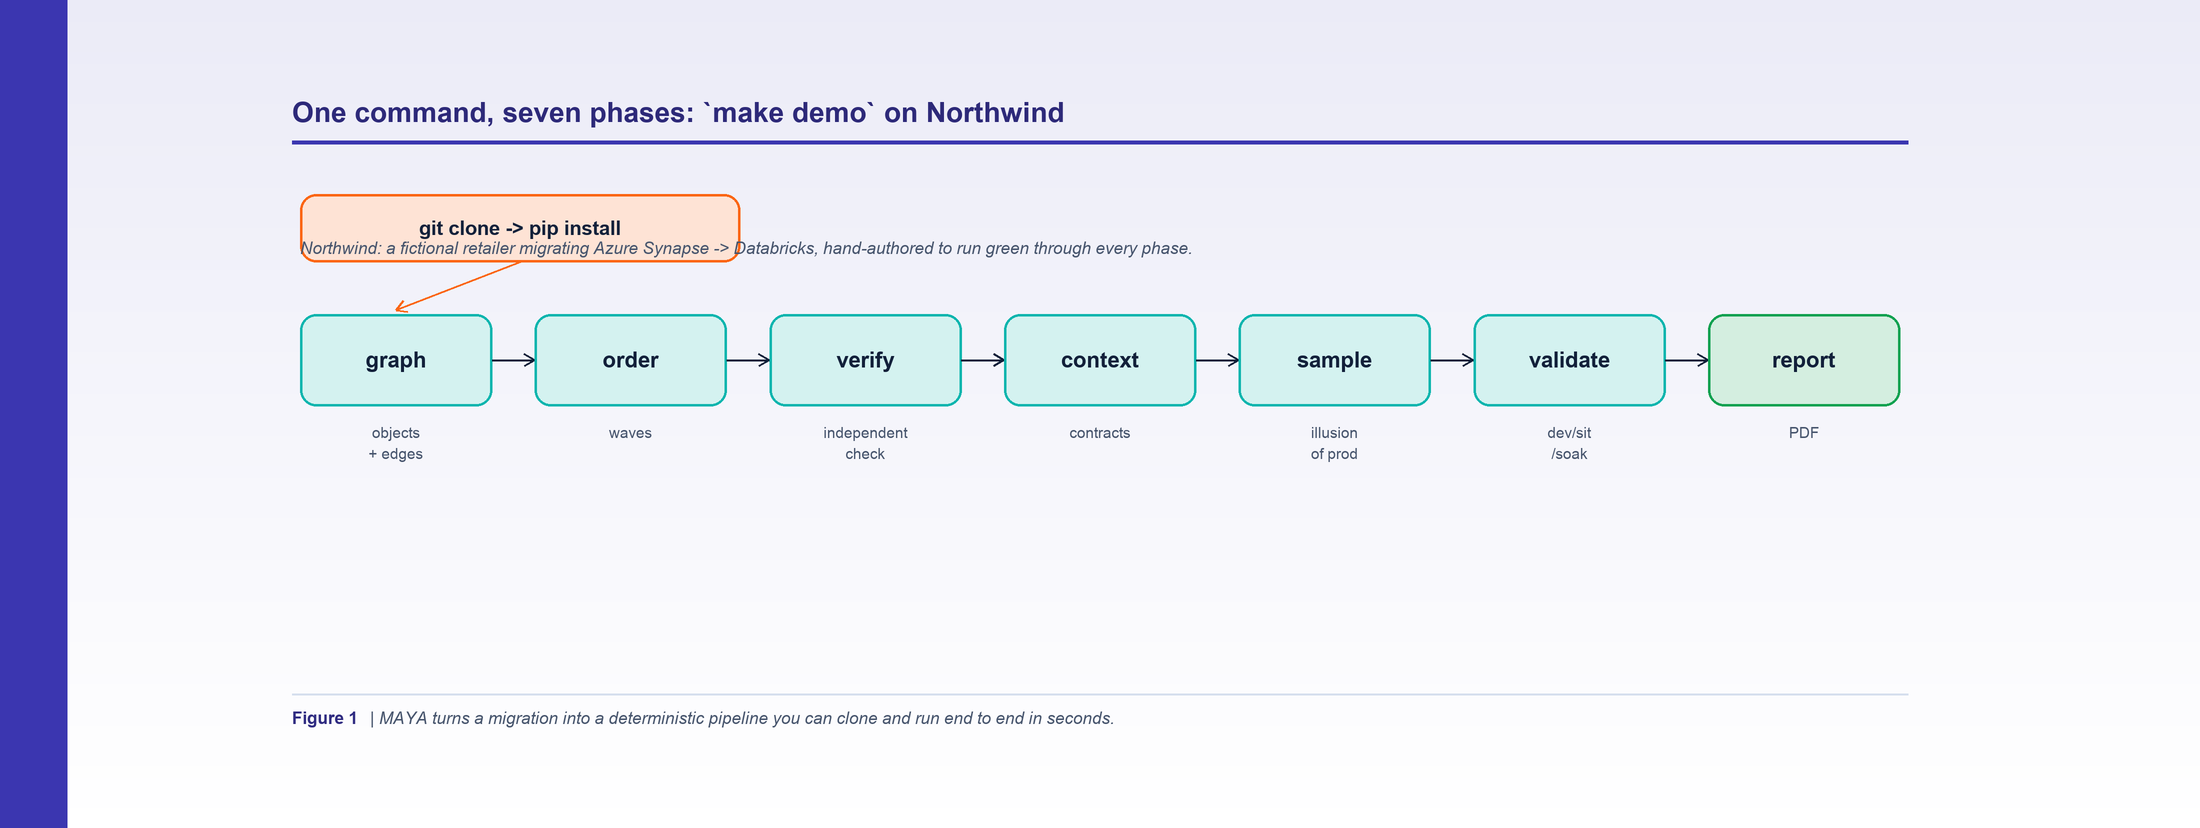
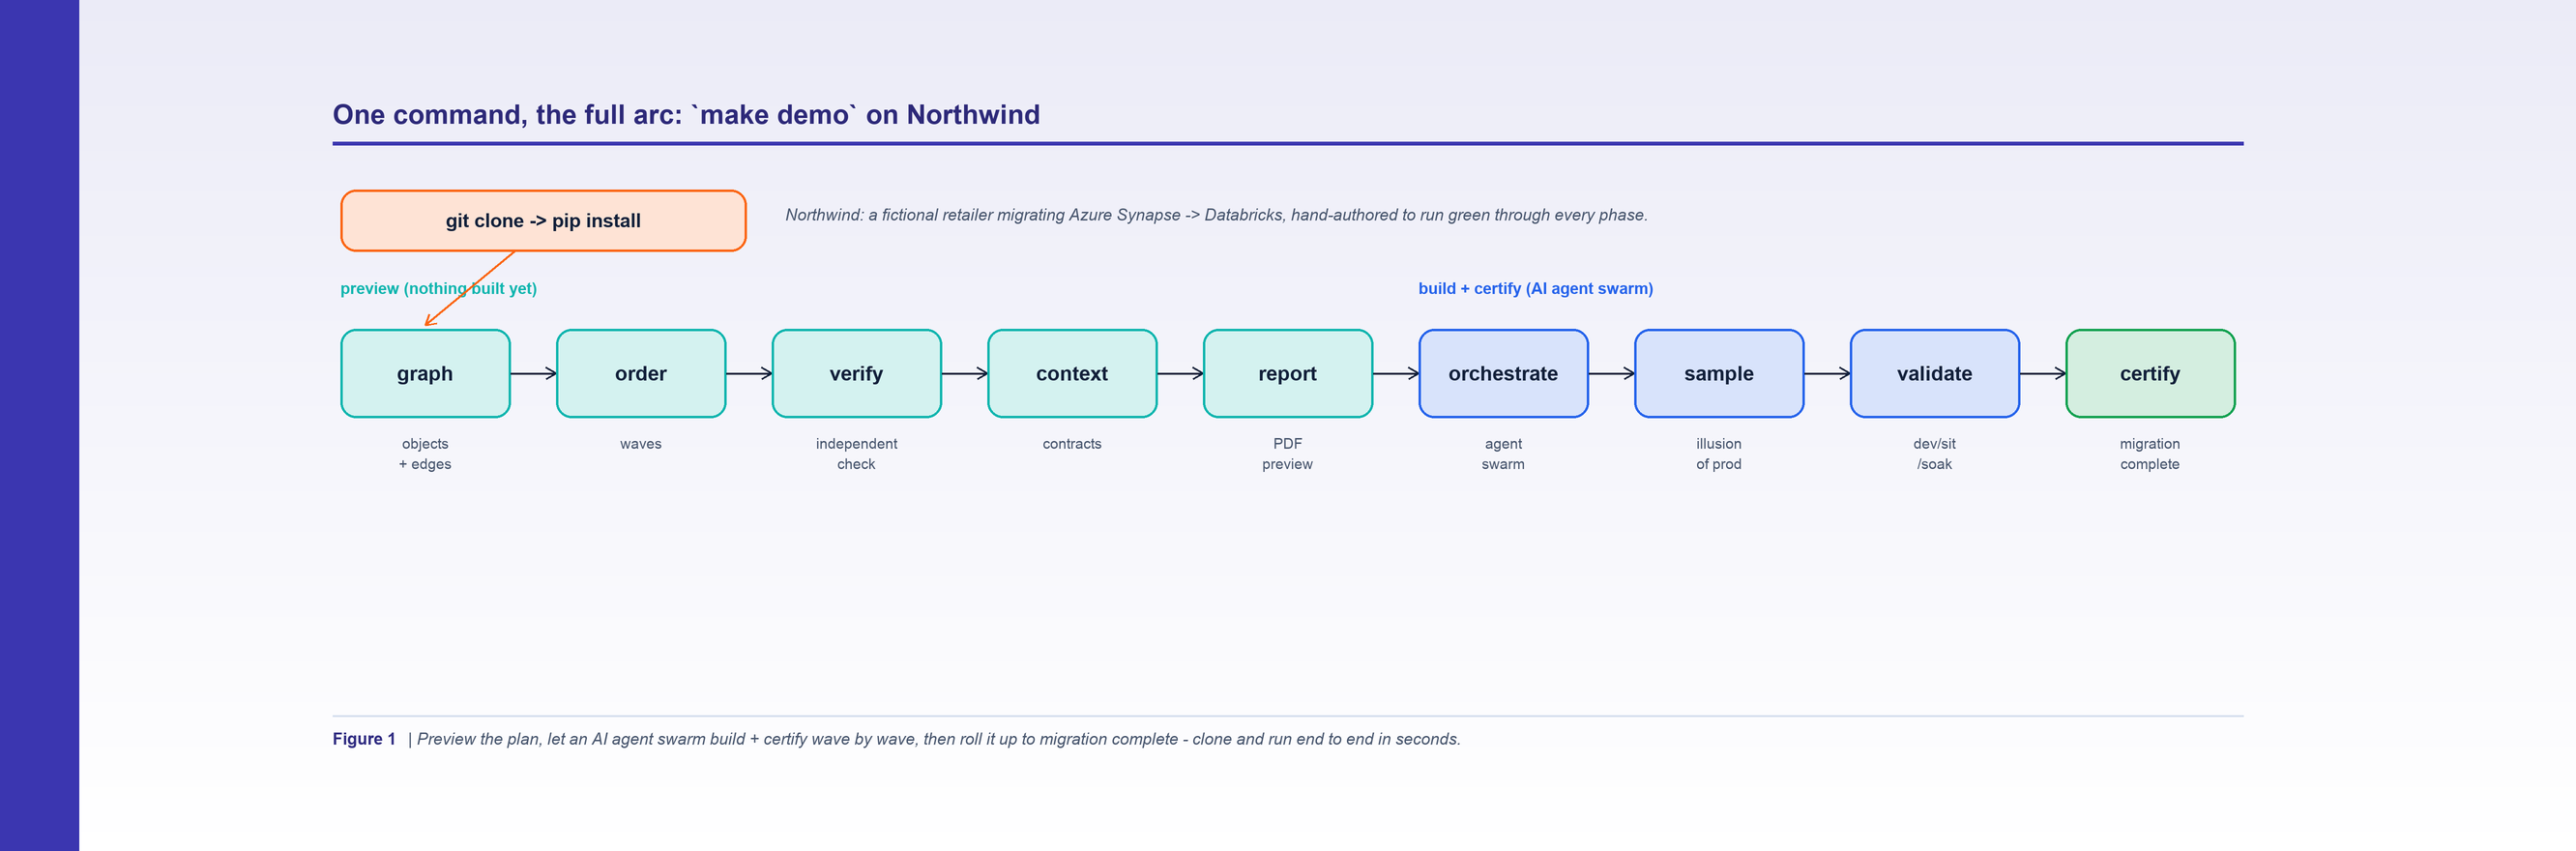
docs: lead README with the platform advantage; align series-2 blog to full arc
- README: add "The big advantage: compress years into weeks" section - expertise
  (AI agents, Databricks, AI skill creation, validation) + customer domain experts;
  collect metadata/code/DDL/views/config, build graph+contracts with medallion
  modernization, preserve gold tables for automated validation, live dashboard for
  business users, AI swarm converts+validates in waves to whole-system certification;
  frame the surprise time-compression factor (6mo-3yr by hand) tied to following the rules
- blog 01 + 10 + tutorial 10: replace "seven phases" with preview + agent-swarm build +
  whole-system certify (maya certify / MIGRATION_COMPLETE); fix stale clone URL
- figures: regenerate fig 01 to show the full preview -> build+certify -> migration complete arc

Changed region(s): [[0.1236, 0.2114, 0.8655, 0.5737], [0.1236, 0.1208, 0.8655, 0.1812], [0.1236, 0.8454, 0.5564, 0.8756]]

diff --git a/blog/figures/generate_figures.py b/blog/figures/generate_figures.py
@@ -22,29 +22,35 @@ HERE = os.path.dirname(os.path.abspath(__file__))
 
 # 01 - the MAYA pipeline on Northwind (make demo)
 def fig01():
-    f = Fig(860, 340, "One command, seven phases: `make demo` on Northwind", 1,
-            "MAYA turns a migration into a deterministic pipeline you can clone and run "
-            "end to end in seconds.")
-    phases = ["graph", "order", "verify", "context", "sample", "validate", "report"]
+    f = Fig(1040, 360, "One command, the full arc: `make demo` on Northwind", 1,
+            "Preview the plan, let an AI agent swarm build + certify wave by wave, then "
+            "roll it up to migration complete - clone and run end to end in seconds.")
+    phases = ["graph", "order", "verify", "context", "report",
+              "orchestrate", "sample", "validate", "certify"]
     subs = ["objects\n+ edges", "waves", "independent\ncheck", "contracts",
-            "illusion\nof prod", "dev/sit\n/soak", "PDF"]
+            "PDF\npreview", "agent\nswarm", "illusion\nof prod", "dev/sit\n/soak",
+            "migration\ncomplete"]
+    # preview phases (nothing built yet) vs build+certify loop
+    cols = [TEAL, TEAL, TEAL, TEAL, TEAL, BLUE, BLUE, BLUE, GREEN]
     n = len(phases)
-    bw, bh = 96, 46
+    bw, bh = 88, 46
     gap = (f.W - 60 - n * bw) / (n - 1)
-    y = 120
-    for i, (p, s) in enumerate(zip(phases, subs)):
+    y = 130
+    for i, (p, s, col) in enumerate(zip(phases, subs, cols)):
         x = 30 + i * (bw + gap)
-        col = TEAL if i < n - 1 else GREEN
-        f.box(x, y, bw, bh, p, fill=tint(col, .82), stroke=col, label_size=11)
+        f.box(x, y, bw, bh, p, fill=tint(col, .82), stroke=col, label_size=10.5)
         f.wrap_center(x + bw / 2, y + bh + 16, s.split("\n"), 7.6, CAPTION)
         if i < n - 1:
             f.arrow(x + bw, y + bh / 2, x + bw + gap, y + bh / 2, width=1.2)
-    f.box(30, 60, 220, 34, "git clone -> pip install", fill=tint(ACCENT, .82),
+    f.box(30, 58, 210, 32, "git clone -> pip install", fill=tint(ACCENT, .82),
           stroke=ACCENT, label_size=10)
-    f.arrow(140, 94, 78, y - 2, color=ACCENT, width=1.1)
-    f.text(30, y - 30, "Northwind: a fictional retailer migrating Azure Synapse -> "
-           "Databricks, hand-authored to run green through every phase.", 8.6, CAPTION,
-           italic=True)
+    f.text(260, 74, "Northwind: a fictional retailer migrating Azure Synapse -> Databricks, "
+           "hand-authored to run green through every phase.", 8.4, CAPTION, italic=True)
+    # phase-group labels sit just above their box groups
+    f.text(30, y - 18, "preview (nothing built yet)", 8.2, TEAL, bold=True)
+    f.text(30 + 5 * (bw + gap), y - 18, "build + certify (AI agent swarm)", 8.2, BLUE,
+           bold=True)
+    f.arrow(120, 90, 74, y - 2, color=ACCENT, width=1.1)
     return f
 
 

diff --git a/blog/01_meet_maya_northwind.md b/blog/01_meet_maya_northwind.md
@@ -29,16 +29,17 @@ small, fully runnable demo you can clone right now.
 ## The 60-second version
 
 ```bash
-git clone https://github.com/srinivasnelakuditi/maya-migrate
-cd maya-migrate
+git clone https://github.com/vasutechgenie/maya-migrate-to-databricks
+cd maya-migrate-to-databricks
 pip install -r requirements.txt
 make demo
 ```
 
-`make demo` runs seven phases against a bundled example and writes every artifact to
+`make demo` runs the full workflow against a bundled example and writes every artifact to
 `examples/northwind/out/`: a normalized dependency graph, an independently verified build
-order, a build contract for every pipeline, referential-integrity-preserving sample SQL,
-parity SQL for three validation phases, and a branded PDF report. No cloud account, no
+order, a build contract for every pipeline (the preview), the agent work queue by wave,
+referential-integrity-preserving sample SQL, parity SQL for three validation phases, the
+whole-system certification rollup, and a branded PDF report. No cloud account, no
 credentials, no live source system required.
 
 ## Meet Northwind
@@ -55,21 +56,32 @@ Northwind isn't just a toy for the blog. It's also the project's **test fixture*
 pytest suite asserts on Northwind's exact waves, classifications, and parity targets, so
 the examples in these posts are guaranteed to stay true as the code evolves.
 
-## The seven phases
+## The phases
 
-Everything MAYA does is a function of one normalized graph:
+Everything MAYA does is a function of one normalized graph. The workflow splits into a
+**preview** (nothing is built yet - you can review the plan before a line of code is
+written) and a **build + certify** loop (a swarm of AI agents turns the plan into the real
+lakehouse, wave by wave):
+
+Preview:
 
 1. **graph** - the adapter parses your source into `objects.csv` + `edges.csv`.
 2. **order** - topological build order (waves) via SCC + longest-path layering.
 3. **verify** - a *different* set of algorithms re-derives the order and proves it.
 4. **context** - a deterministic build contract per pipeline (needs / logic / output).
-5. **sample** - build a small "illusion of production" for cheap logic proofs.
-6. **validate** - prove parity dev -> sit -> soak, with no partial credit.
-7. **report** - a branded PDF summarizing waves, engines, parity, and connections.
+5. **report** - a branded PDF preview of the whole migration.
+
+Build + certify:
+
+6. **orchestrate** - a pool of AI agents drains each wave's queue and builds the *real* pipelines.
+7. **sample** - build a small "illusion of production" for cheap logic proofs.
+8. **validate** - prove parity dev -> sit -> soak, with no partial credit.
+9. **certify** - the whole-system rollup: the migration is complete only when every pipeline (and dashboard) is certified.
 
 The thing I care most about is that none of this is guessed. The graph comes from the
 source; the order is computed and independently checked; the contracts are derived, not
-authored; and certification is binary and machine-verified.
+authored; the agents build inside those contracts; and certification is binary and
+machine-verified - per pipeline, then for the whole system.
 
 ## Why "MAYA"?
 
@@ -84,10 +96,11 @@ over time. We'll get deep into all three phases later in the series.
 
 Over the next nine parts we'll follow Northwind through the whole pipeline: how MAYA reads
 any source, how it builds and verifies the dependency graph and the wave plan, how the
-per-pipeline contract is derived, how seven reusable engines cover the estate, and how the
-three-phase parity gate (Dev, SIT, and the sustained Soak) certifies each table. We'll
-finish with the live dashboard, BI/Genie migration, and cutover - and how to point MAYA at
-your own estate.
+per-pipeline contract is derived, how seven reusable engines cover the estate, how a swarm
+of AI agents builds the estate wave by wave, and how the three-phase parity gate (Dev, SIT,
+and the sustained Soak) certifies each table - up to the whole-system certification that
+declares the migration complete. We'll finish with the live dashboard, BI/Genie migration,
+and cutover - and how to point MAYA at your own estate.
 
 If you want to read ahead, the repo has a durable, versioned version of this same
 walkthrough under `docs/tutorial/`. But the best way to follow along is to clone it and run

diff --git a/README.md b/README.md
@@ -13,6 +13,34 @@ wave by wave, each one self-validating against the source through a strict three
 parity gate. The run finishes with a single **whole-system certification**: when every
 pipeline and dashboard is certified, the migration is complete and the source can retire.
 
+## The big advantage: compress years into weeks
+
+MAYA is built on deep, hands-on expertise - **AI coding agents**, **Databricks and lakehouse
+engineering**, **AI skill/agent creation**, and **large-scale migration validation** - and it
+pairs that expertise with **your domain experts**, the people who know what each pipeline
+actually means. That combination turns a multi-year rewrite into a governed assembly line:
+
+1. **Collect everything.** Together with your domain experts, MAYA gathers the full estate -
+   metadata for every existing pipeline, the pipeline *code*, DDL, views, and the metadata
+   sitting in your config/control tables. Nothing is guessed; the source describes itself.
+2. **Build the graph and contracts.** MAYA derives one normalized dependency graph and a
+   per-pipeline **build contract** for *every* pipeline, with a complete **modernization to
+   medallion architecture** (bronze / silver / gold) baked in - not a lift-and-shift.
+3. **Preserve every gold table for automated validation.** The gold tables each pipeline
+   produces are kept intact and targeted, so parity can be proven *automatically*, table by
+   table, against the legacy system.
+4. **Give business users a live dashboard.** A ready-made dashboard lets business and program
+   stakeholders watch progress - wave by wave, gate by gate - in real time.
+5. **Run the AI swarm.** A swarm of AI agents converts and validates the pipelines **in
+   waves**, re-proving parity at each step, until the whole system is certified **done**.
+
+> **The surprise factor.** That last phase - actually converting and validating hundreds of
+> pipelines - is the part that, done by hand, takes **6 months to 2-3 years**. MAYA crunches
+> it into a small fraction of that time. *How* small is the surprise: the compression factor
+> scales directly with how well you follow the framework's rules. Clean metadata, honest
+> contracts, disciplined domain-expert review, and preserved gold tables all multiply the
+> speedup - follow the rules well and the timeline collapses from years to weeks.
+
 **Source-agnostic by design.** The core never sees your source technology - it only ever
 operates on a normalized graph. A thin **adapter** is the *only* piece that understands a
 given source, so the same engine migrates:

diff --git a/blog/10_dashboard_bi_cutover.md b/blog/10_dashboard_bi_cutover.md
@@ -32,8 +32,10 @@ tables and dashboard views (see `templates/dashboard_control_tables.sql` and
 - **v_drift** - open parity failures by reason code, so the team fixes causes, not symptoms.
 - **v_soak_watch** - pipelines in soak, with their T+7 / T+14 due dates and drift status.
 
-The gates run G0 (scope) through G9 (soak-certified), and progress is measured against them, so
-"how far along are we" has an exact, defensible answer instead of a vibe.
+The gates run G0 (scope) through G9 (soak-certified) per pipeline, then a single **system gate
+(S)** rolls all of them - plus the BI objects - across every wave into one verdict:
+`MIGRATION_IN_PROGRESS -> SYSTEM_PROVISIONAL -> MIGRATION_COMPLETE`. So "how far along are we"
+has an exact, defensible answer instead of a vibe - right up to "is the migration done?"
 
 ## Migrating the BI layer
 
@@ -61,13 +63,17 @@ aren't proven yet.
 
 Cutover is the payoff of everything before it. Because each table is certified and each wave is
 built on certified data, cutover isn't a leap of faith - it's flipping consumers over to tables
-that have already been proven equal, including through the soak. The `report` phase produces a
-branded PDF summarizing waves, engines, parity, and connections that's genuinely useful as the
-sign-off artifact:
+that have already been proven equal, including through the soak. And you don't cut over on a hunch
+that "everything's done": `maya certify` rolls every per-pipeline gate and every BI object into
+one whole-system state, and only `MIGRATION_COMPLETE` clears the source for retirement:
 
 ```bash
-python3 cli.py report --config examples/northwind/northwind.yaml
+python3 cli.py certify --config examples/northwind/northwind.yaml
+python3 cli.py report  --config examples/northwind/northwind.yaml
 ```
+
+The `report` phase produces a branded PDF summarizing waves, engines, parity, and connections
+that's genuinely useful as the sign-off artifact.
 
 ## Running it on your estate
 
@@ -78,11 +84,12 @@ Northwind was the whole workflow in miniature. To run MAYA for real:
    template; ship a small synthetic example alongside it, exactly like Northwind.
 2. **Copy `templates/project_config.example.yaml`** to your own config: point it at your discovery
    folder, set your schema-to-layer map, your dev/sit catalogs, and your soak windows.
-3. **Run the same seven phases** you just watched, wave by wave, certifying as you go.
+3. **Run the same workflow** you just watched - preview, then let the agent swarm build and
+   certify wave by wave, and finish with `maya certify` for the whole-system verdict.
 
 Everything you saw in this series - the graph, the verified waves, the derived contracts, the seven
-engines, and the three-phase Dev -> SIT -> Soak gate - is source-agnostic. The only thing that
-changes per source is the adapter.
+engines, the three-phase Dev -> SIT -> Soak gate, and the whole-system certification - is
+source-agnostic. The only thing that changes per source is the adapter.
 
 ## Thank you
 

diff --git a/docs/tutorial/10_dashboard_bi_and_cutover.md b/docs/tutorial/10_dashboard_bi_and_cutover.md
@@ -26,9 +26,13 @@ BI work starts only after the gold tables it reads are MAYA-certified.
 
 ## Cutover
 Because each table is certified and each wave built on certified data, cutover is flipping consumers
-to already-proven tables. The `report` phase produces the sign-off PDF:
+to already-proven tables. But you don't declare "done" on a hunch: `maya certify` rolls every
+per-pipeline gate and every BI object into one whole-system state
+(`MIGRATION_IN_PROGRESS -> SYSTEM_PROVISIONAL -> MIGRATION_COMPLETE`); only `MIGRATION_COMPLETE`
+clears the source for retirement. The `report` phase produces the sign-off PDF:
 ```bash
-python3 cli.py report --config examples/northwind/northwind.yaml
+python3 cli.py certify --config examples/northwind/northwind.yaml
+python3 cli.py report  --config examples/northwind/northwind.yaml
 ```
 
 ## Running it on your estate
@@ -36,7 +40,8 @@ python3 cli.py report --config examples/northwind/northwind.yaml
    ship a small synthetic example like Northwind. See [../12_adapter_authoring_guide.md](../12_adapter_authoring_guide.md).
 2. **Copy `templates/project_config.example.yaml`** and point it at your discovery folder; set your
    schema->layer map, dev/sit catalogs, and soak windows.
-3. **Run the same seven phases**, wave by wave, certifying as you go.
+3. **Run the same workflow** - preview, then let the agent swarm build + certify wave by wave, and
+   finish with `maya certify` for the whole-system verdict.
 
 Everything in this tutorial is source-agnostic; only the adapter changes per source.
 